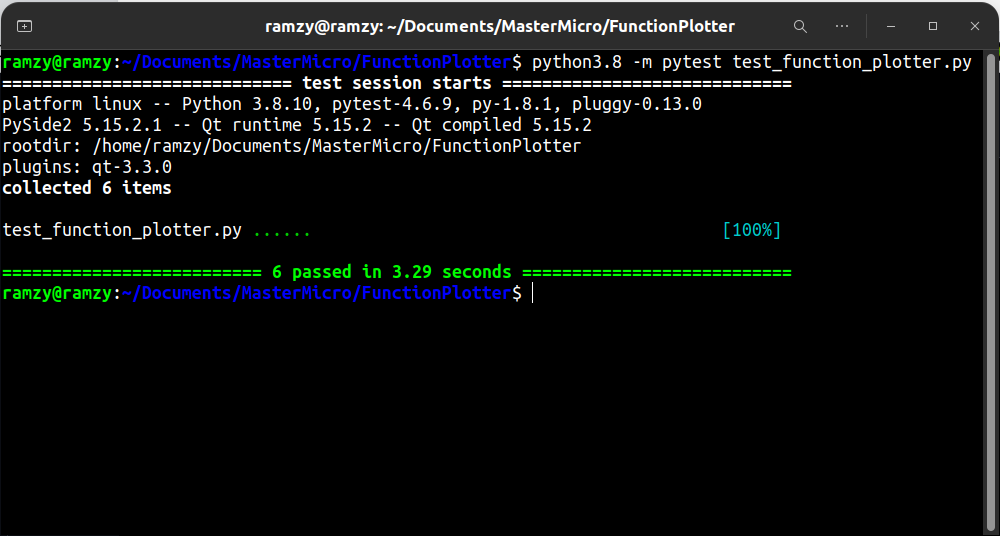
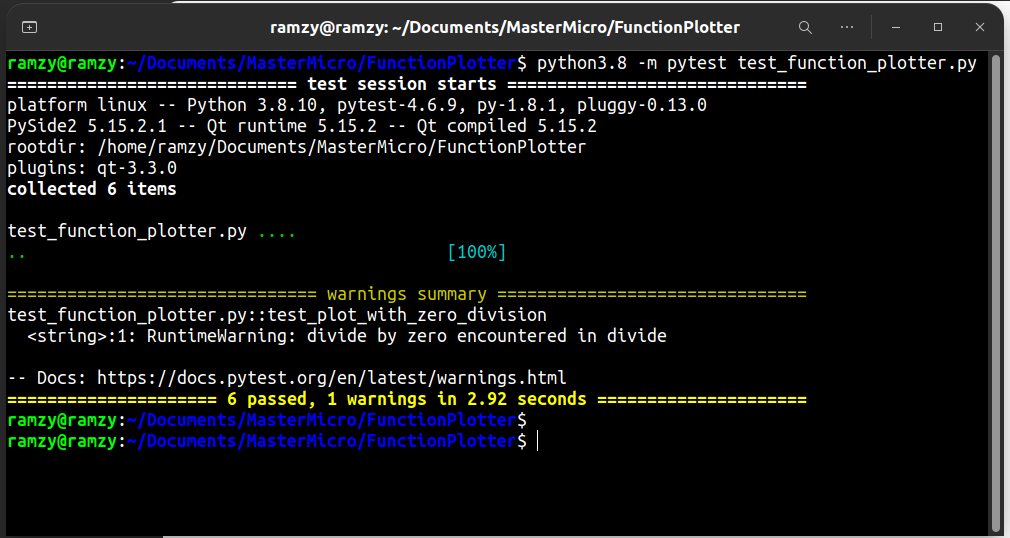
update plot function

Changed region(s): [[0.0, 0.0, 1.0, 1.0], [0.713, 0.4179, 0.775, 0.4478]]

diff --git a/main.py b/main.py
@@ -115,13 +115,12 @@ class MainWindow(QMainWindow):
         return checkbox
 
     def plot(self):
-        # Function to plot the given function within the specified range
-        function = self.input_layouts[0][1].text()
 
         try:
             # Try to convert the range input to float
             lower = float(self.input_layouts[1][1].text())
             upper = float(self.input_layouts[2][1].text())
+            x = np.linspace(lower, upper, 1000)  # Generate x values for the plot
         except ValueError:
             # Show error message if the range input is not a number
             self.error_message.setWindowTitle("Error!")
@@ -129,12 +128,22 @@ class MainWindow(QMainWindow):
             self.error_message.setIcon(QMessageBox.Critical)
             self.error_message.exec_()
             return
-   
-        # Check for division by zero in the function input
-        if "/ 0" in function or "/0" in function:
-            # Show error message if the function contains division by zero
+        
+        try:
+            # Function to plot the given function within the specified range
+            function = self.input_layouts[0][1].text()
+            y = eval(function.replace("^", "**"))
+        except SyntaxError as e:
+            # Show error message if there is a syntax error in the function
             self.error_message.setWindowTitle("Error!")
-            self.error_message.setText("Error: Division by zero in the function.")
+            self.error_message.setText("Error: Syntax Error in the function.")
+            self.error_message.setIcon(QMessageBox.Critical)
+            self.error_message.exec_()
+            return
+        except NameError as e:
+            # Show error message if there is an invalid function
+            self.error_message.setWindowTitle("Error!")
+            self.error_message.setText("Error: Syntax Error in the function.")
             self.error_message.setIcon(QMessageBox.Critical)
             self.error_message.exec_()
             return
@@ -148,40 +157,27 @@ class MainWindow(QMainWindow):
             self.error_message.exec_()
             return
 
-        x = np.linspace(lower, upper, 1000)  # Generate x values for the plot
+        # Check for division by zero in the function input
+        if "/ 0" in function or "/0" in function:
+            # Show error message if the function contains division by zero
+            self.error_message.setWindowTitle("Error!")
+            self.error_message.setText("Error: Division by zero in the function.")
+            self.error_message.setIcon(QMessageBox.Critical)
+            self.error_message.exec_()
+            return
 
         try:
-            # Evaluate the function to get y values for the plot
-            y = eval(function.replace("^", "**"))
-        except SyntaxError as e:
-            # Show error message if there is a syntax error in the function
-            self.error_message.setWindowTitle("Error!")
-            self.error_message.setText("Error: Syntax Error in the function.")
-            self.error_message.setIcon(QMessageBox.Critical)
-            self.error_message.exec_()
-            return
-        except NameError as e:
-            # Show error message if there is an invalid function
-            self.error_message.setWindowTitle("Error!")
-            self.error_message.setText("Error: Invalid function.")
-            self.error_message.setIcon(QMessageBox.Critical)
-            self.error_message.exec_()
+            # Clear the previous plot and create a new one with the new data
+            self.figure.clear()
+            plt.plot(x, y)
+            plt.xlabel('x')  # Set x-axis label
+            plt.ylabel('y')  # Set y-axis label
+            plt.title(f'Function Plot for {function}')  # Set the plot title with the function
+            self.update_plot_grid()  # Update the plot grid based on the checkbox state
+            self.canvas.draw()  # Redraw the canvas to display the updated plot
         except Exception as e:
-            # Show error message for any other exceptions
-            self.error_message.setWindowTitle("Error!")
-            self.error_message.setText("Error: Invalid function.")
-            self.error_message.setIcon(QMessageBox.Critical)
-            self.error_message.exec_()
             return
 
-        # Clear the previous plot and create a new one with the new data
-        self.figure.clear()
-        plt.plot(x, y)
-        plt.xlabel('x')  # Set x-axis label
-        plt.ylabel('y')  # Set y-axis label
-        plt.title(f'Function Plot for {function}')  # Set the plot title with the function
-        self.update_plot_grid()  # Update the plot grid based on the checkbox state
-        self.canvas.draw()  # Redraw the canvas to display the updated plot
 
     def update_plot_grid(self):
         # Function to update the plot grid based on the state of the grid checkbox
@@ -209,6 +205,8 @@ class MainWindow(QMainWindow):
             line_edit.clear()  # Clear all input fields
         self.figure.clear()  # Clear the previous plot
         self.canvas.draw()  # Redraw the canvas to display the cleared plot
+        self.grid_checkbox.setChecked(False)  # Uncheck the grid checkbox
+        self.axes_checkbox.setChecked(False)  # Uncheck the axes checkbox
 
     def save_image(self):
         # Function to save the plot as an image

diff --git a/test_function_plotter.py b/test_function_plotter.py
@@ -6,6 +6,7 @@ from PySide2.QtWidgets import QLineEdit, QPushButton, QCheckBox
 from PySide2.QtCore import Qt
 import matplotlib.pyplot as plt  # Import the plt module to access the grid setting
 
+
 def test_plot(qtbot):
     # Test the plot is shown correctly
     # Arrange
@@ -65,12 +66,13 @@ def test_plot_with_zero_division(qtbot):
     plot = window.figure
     # Act
     function_input.setText("x/0")
-    min_input.setText("10")
-    max_input.setText("-10")
+    min_input.setText("-10")
+    max_input.setText("10")
     qtbot.mouseClick(plot_button, Qt.LeftButton)
     # Assert
     assert not plot.axes # check if the plot is empty
     assert window.error_message.text() == "Error: Division by zero in the function."
+    assert ZeroDivisionError
 
 def test_reset(qtbot):
     # Test the reset button works correctly
